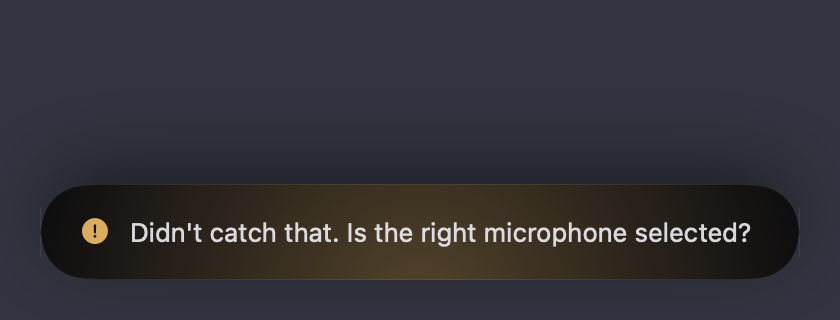
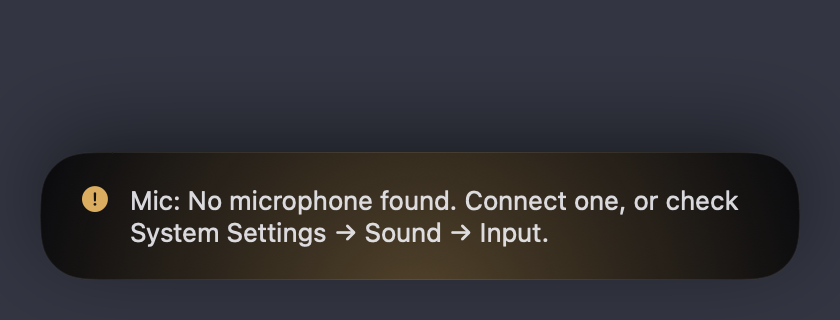
Say clearly when the Mac has no microphone (#10)
* Say clearly when the Mac has no microphone

Desktop Macs (Mac Studio, Mac mini) have no built-in mic. With no input
device at all, the pill said "The microphone is not delivering audio.
Pick another microphone in Settings.", where there was nothing to pick.
It now says "No microphone found. Connect one, or check System Settings
→ Sound → Input.", and Settings shows "Automatic (no microphone found)".

The failed-pill snapshot uses the new message, and the README gains a
troubleshooting row.

* README: drop an unverified Screen Sharing claim

---------

Changed region(s): [[0.031, 0.4688, 0.9595, 0.7812]]

diff --git a/app/TalkToMe/AudioRecorder.swift b/app/TalkToMe/AudioRecorder.swift
@@ -21,15 +21,19 @@ final class AudioRecorder {
     static func requestPermission() async -> Bool { await AVCaptureDevice.requestAccess(for: .audio) }
 
     enum RecorderError: LocalizedError {
+        case noMicrophone
         case noInput(String)
         var errorDescription: String? {
             switch self {
+            // Desktop Macs (Mac Studio, Mac mini) have no built-in mic.
+            case .noMicrophone: "No microphone found. Connect one, or check System Settings → Sound → Input."
             case .noInput(let name): "\(name) is not delivering audio. Pick another microphone in Settings."
             }
         }
     }
 
     func start(device: Microphones.Device?) throws {
+        guard !Microphones.inputs().isEmpty else { throw RecorderError.noMicrophone }
         lock.withLock { pcm.removeAll(keepingCapacity: true) }
         // A fresh engine every time. A reused one remembers the mic's format,
         // and when the hardware changes underneath it (another app switches

diff --git a/app/TalkToMe/SettingsView.swift b/app/TalkToMe/SettingsView.swift
@@ -94,7 +94,7 @@ struct SettingsView: View {
     private var microphone: some View {
         Section {
             Picker("Input", selection: $settings.microphoneUID) {
-                Text("Automatic (\(Self.microphoneOverride ?? Microphones.resolve(preferredUID: nil)?.name ?? "none"))").tag(String?.none)
+                Text("Automatic (\(Self.microphoneOverride ?? Microphones.resolve(preferredUID: nil)?.name ?? "no microphone found"))").tag(String?.none)
                 ForEach(microphones) { mic in
                     Text(mic.isBuiltIn && Microphones.lidClosed ? "\(mic.name) (lid closed)" : mic.name)
                         .tag(String?.some(mic.uid))

diff --git a/app/TalkToMe/TalkToMeApp.swift b/app/TalkToMe/TalkToMeApp.swift
@@ -132,7 +132,7 @@ enum Snapshots {
             ("pill-recording", .recording),
             ("pill-transcribing", .transcribing),
             ("pill-done", .done(text: history[0].text, engine: "example.local")),
-            ("pill-failed", .failed("Didn't catch that. Is the right microphone selected?")),
+            ("pill-failed", .failed("Mic: " + (AudioRecorder.RecorderError.noMicrophone.errorDescription ?? ""))),
         ]
         for (name, phase) in phases {
             let pillModel = Dictation(settings: settings, live: false)

diff --git a/README.md b/README.md
@@ -160,6 +160,7 @@ See [SECURITY.md](SECURITY.md) for the network model.
 | Symptom | Likely cause |
 |---|---|
 | "Didn't catch that" every time | The mic records silence. With the lid closed the built-in mic is off: pick another input in Settings → Microphone |
+| "No microphone found" | Mac Studio and Mac mini have no built-in mic. Connect a USB or Bluetooth mic (or AirPods) to that Mac |
 | Nothing happens on the key | Input Monitoring is not granted. System Settings → Privacy & Security → Input Monitoring |
 | Text is copied but not pasted | Accessibility is not granted, or "Paste at the cursor" is off |
 | Permissions reset after every build | The app is ad-hoc signed. Sign with your own identity, see [CONTRIBUTING.md](CONTRIBUTING.md) |
